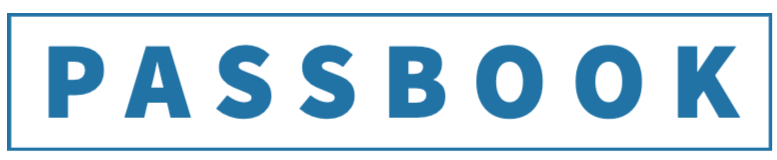
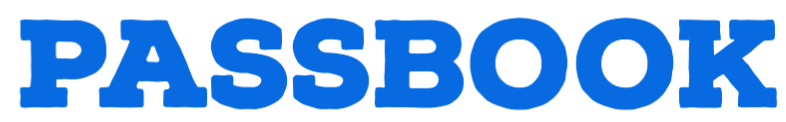
styling

diff --git a/client/src/components/pages/Loans/LoanCreate.jsx b/client/src/components/pages/Loans/LoanCreate.jsx
@@ -1,6 +1,6 @@
 import React, { useState } from 'react'
 
-import { Navigate } from 'react-router-dom'
+import { Link, Navigate } from 'react-router-dom'
 import { createLoan } from '../../../api/loans'
 import { LoanCreateForm } from '../Loans/LoanCreateForm'
 
@@ -67,6 +67,7 @@ const LoanCreate = ({ user, updateMode, selectClient, clients, setRender, msgAle
     <div className='screen'>
       <div className="screen-container">
         <div className="table-box">
+          {!user && <Link to='/account/register'>Sign in or Register to add a new loan</Link>}
           <h1>New loan</h1>
           <LoanCreateForm user={user} data={loanFormData} handleChange={handleChange} handleCreate={handleCreate} setLoan={setLoan} loan={loan} clients={clients} selectClient={selectClient}/>
         </div>

diff --git a/client/src/components/sidebar/Sidebar.jsx b/client/src/components/sidebar/Sidebar.jsx
@@ -1,7 +1,6 @@
 import './navbar.scss'
 import React from 'react'
 import { NavLink } from 'react-router-dom'
-import logo from '../../images/passbook.png'
 import DashboardIcon from '@mui/icons-material/Dashboard'
 import PeopleIcon from '@mui/icons-material/People'
 import AccountBalanceIcon from '@mui/icons-material/AccountBalance'
@@ -13,9 +12,9 @@ export function Sidebar ({ user }) {
     <div className='sidebar'>
       {/* <GridViewIcon/> */}
 
-      <div className="logo">
+      <div className="logo">PASSBOOK
 
-        <img src={logo} alt='' />
+        {/* <img src={logo} alt='' /> */}
       </div>
       {/* <div className='top'><span className="logo">passbook</span></div> */}
       {/* <hr/> */}

diff --git a/client/src/components/sidebar/navbar.scss b/client/src/components/sidebar/navbar.scss
@@ -35,19 +35,17 @@
     background-color: #fff;
 
     .logo{
-      height: 40px;
-      object-fit: cover;
 
-      img {
-        max-width:100%;
-        max-height:100%;
-        object-fit: cover;
-        margin: 5px;
-
-      }
-
-
+        display: flex;
+        align-items: center;
+        justify-content: center;
+        font-size: 25px;
+        font-weight: 500;
+        color: rgba(82, 79, 79, 0.972);
+        margin-top: 10px;
+        border-bottom:    0.5px solid rgb(230, 227, 227);
     }
+
     .top{
         height: 40px;
         display: flex;

diff --git a/client/src/index.scss b/client/src/index.scss
@@ -1,5 +1,6 @@
 @import '~bootstrap/scss/bootstrap';
 
+
 .app {
     display: flex;
     font-family: "Helvetica Neue", Helvetica, sans-serif;
@@ -9,6 +10,7 @@
 
     }
  
+
     h1{
         font-size: 38px;
         font-weight: 500;
